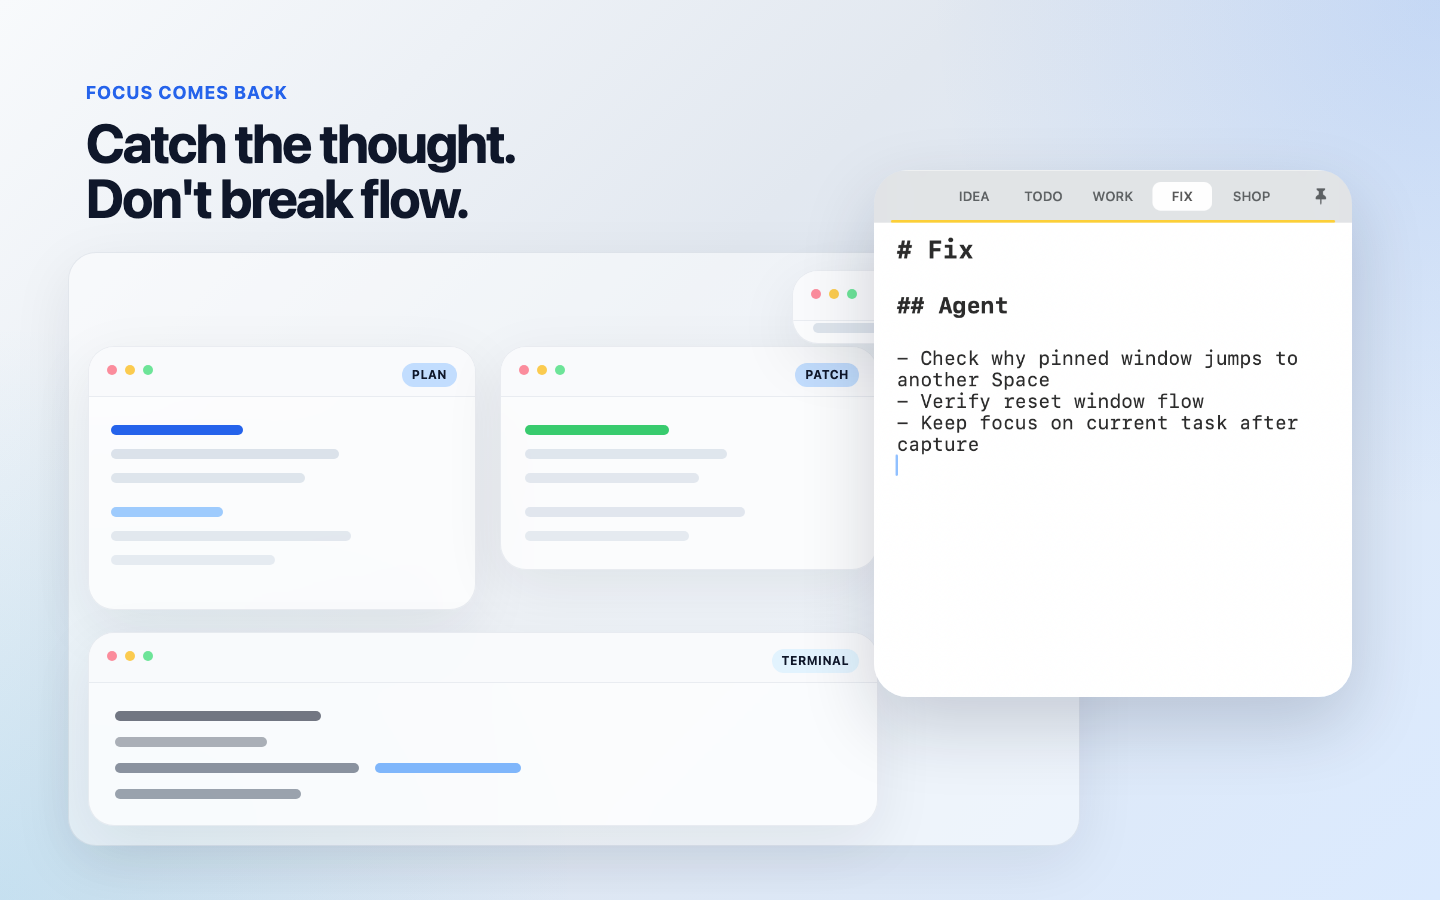
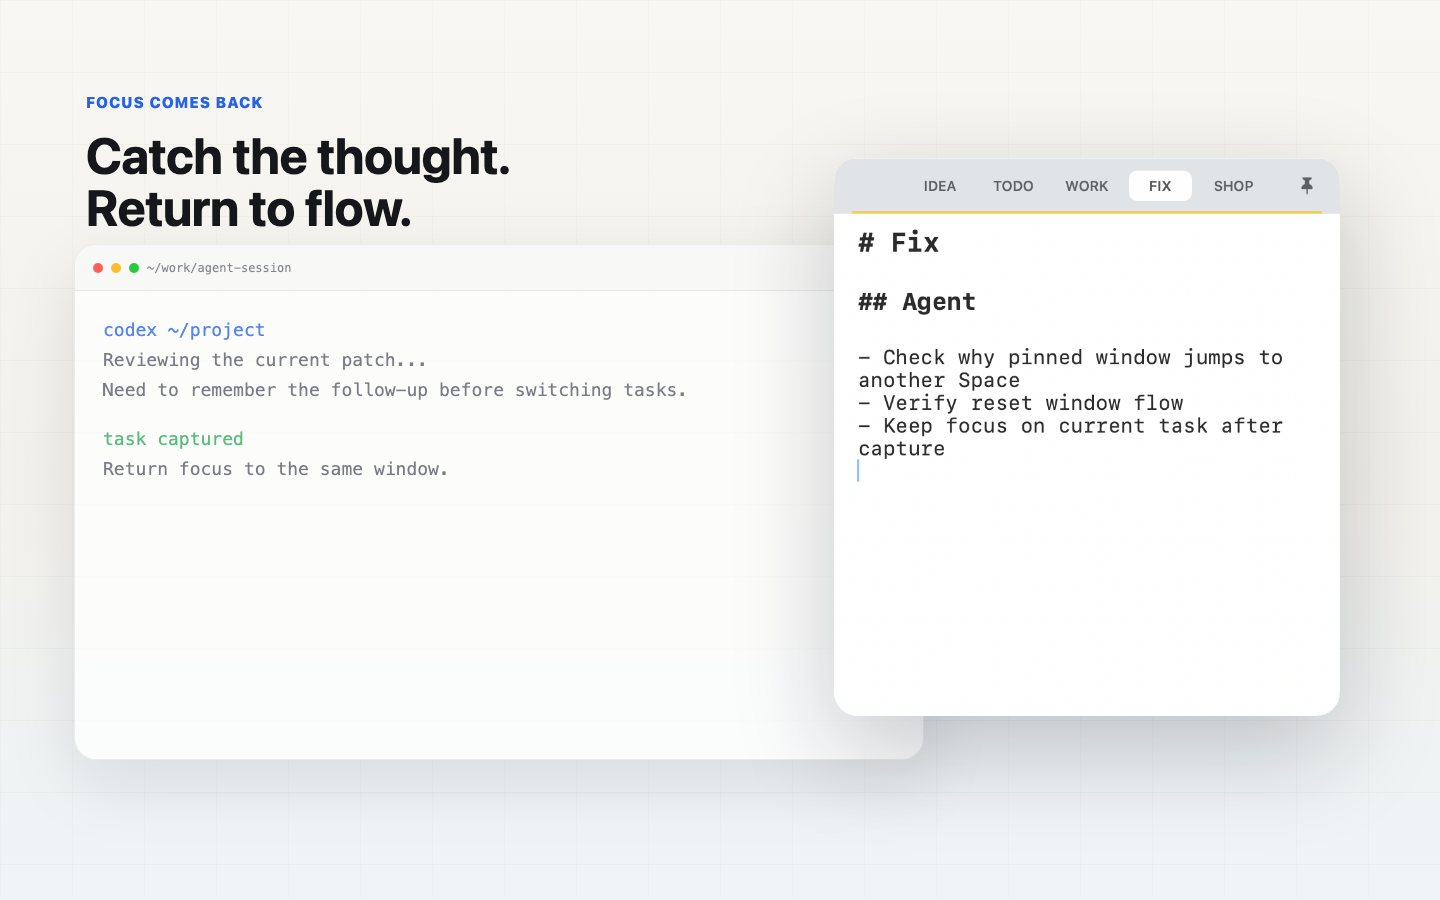
Update SaneFocus launch copy

diff --git a/sanefocus/index.html b/sanefocus/index.html
@@ -3,8 +3,8 @@
   <head>
     <meta charset="utf-8">
     <meta name="viewport" content="width=device-width, initial-scale=1">
-    <title>SaneFocus - Quick notes without losing focus</title>
-    <meta name="description" content="SaneFocus is a lightweight macOS scratchpad for quick notes, keyboard-first TODOs, and getting back to what you were doing.">
+    <title>SaneFocus - Quick notes, then back to flow</title>
+    <meta name="description" content="SaneFocus is a lightweight macOS scratchpad for quick notes, keyboard-first TODOs, and returning to flow.">
     <link rel="icon" href="/assets/icons/favicon.svg" type="image/svg+xml">
     <link rel="stylesheet" href="/styles.css">
   </head>
@@ -24,10 +24,10 @@
     <main class="shell hero">
       <section>
         <div class="eyebrow">SaneFocus for macOS</div>
-        <h1>Catch the thought.<br>Keep the focus.</h1>
+        <h1>Catch the thought.<br>Return to flow.</h1>
         <p class="lede">
           A lightweight macOS scratchpad for quick notes, keyboard-first TODOs,
-          and getting back to what you were doing.
+          and returning to the app you were using.
         </p>
         <div class="actions">
           <a class="button" href="#features">See features</a>
@@ -35,7 +35,7 @@
         </div>
       </section>
       <section class="hero-card" aria-label="SaneFocus app preview">
-        <video src="/assets/sanefocus/01-app-preview.mp4" autoplay muted loop playsinline poster="/assets/sanefocus/02-focus-comes-back.png"></video>
+        <img src="/assets/sanefocus/02-focus-comes-back.png" alt="SaneFocus app screenshot">
       </section>
     </main>
 
@@ -60,13 +60,13 @@
         </article>
         <article class="feature">
           <div class="feature-mark"></div>
-          <h3>Lightweight tabs</h3>
-          <p>Keep separate thought streams in compact tabs without opening a full notes workspace.</p>
+          <h3>Five quiet tabs</h3>
+          <p>Keep separate thought streams in five compact tabs. Titles update from what you write, so context stays recognizable without extra setup.</p>
         </article>
         <article class="feature">
           <div class="feature-mark"></div>
           <h3>Local by default</h3>
-          <p>Notes stay local on your Mac. SaneFocus does not require an account or upload analytics.</p>
+          <p>Notes stay local on your Mac. SaneFocus does not require an account, Accessibility permission, or analytics upload.</p>
         </article>
       </div>
     </section>
@@ -92,7 +92,8 @@
           <h3>Support</h3>
           <p>
             Questions, bug reports, and feature requests are welcome. The
-            support page also explains Accessibility permission and local notes.
+            support page also explains focus return behavior, local notes, and
+            why Accessibility permission is not required.
           </p>
           <a class="button secondary" href="/sanefocus/support/">Open support</a>
         </article>

diff --git a/index.html b/index.html
@@ -4,7 +4,7 @@
     <meta charset="utf-8">
     <meta name="viewport" content="width=device-width, initial-scale=1">
     <title>JP Forge Studio</title>
-    <meta name="description" content="JP Forge Studio makes SaneFocus, a small Mac scratchpad for catching thoughts without losing focus.">
+    <meta name="description" content="JP Forge Studio makes SaneFocus, a small Mac scratchpad for catching thoughts and returning to flow.">
     <link rel="icon" href="/assets/icons/favicon.svg" type="image/svg+xml">
     <link rel="stylesheet" href="/styles.css">
   </head>
@@ -24,7 +24,7 @@
     <main class="shell hero">
       <section>
         <div class="eyebrow">Small Mac Apps</div>
-        <h1>Catch the thought.<br>Keep the focus.</h1>
+        <h1>Catch the thought.<br>Return to flow.</h1>
         <p class="lede">
           JP Forge Studio makes SaneFocus: a lightweight Mac scratchpad that
           opens quickly, stays local, and gets out of the way.
@@ -57,8 +57,8 @@
           <h3>Local-first by default</h3>
           <p>
             SaneFocus stores notes locally on your Mac and does not require an
-            account. Accessibility permission is used only for window focus
-            behavior.
+            account. Focus return uses standard macOS app activation behavior,
+            without Accessibility permission, note uploads, or analytics.
           </p>
         </article>
       </div>

diff --git a/sanefocus/privacy/index.html b/sanefocus/privacy/index.html
@@ -44,11 +44,11 @@
         analytics SDKs.
       </p>
 
-      <h2>Accessibility permission</h2>
+      <h2>Focus return</h2>
       <p>
-        SaneFocus may ask for macOS Accessibility permission so it can restore
-        focus to the app you were using after opening and closing the notes
-        window. This permission is used only for window focus behavior.
+        SaneFocus remembers the app that was active before quick capture and
+        asks macOS to reactivate that app after the notes window closes. This
+        does not require Accessibility permission.
       </p>
 
       <h2>Contact</h2>

diff --git a/sanefocus/support/index.html b/sanefocus/support/index.html
@@ -33,11 +33,11 @@
       </p>
 
       <h2>Common questions</h2>
-      <h3>Why does SaneFocus ask for Accessibility permission?</h3>
+      <h3>Does SaneFocus need Accessibility permission?</h3>
       <p>
-        SaneFocus may ask for macOS Accessibility permission so it can return
-        focus to the app you were using after quick capture. This permission is
-        used only for window focus behavior.
+        No. SaneFocus restores focus by asking macOS to reactivate the app you
+        were using before quick capture. It does not need Accessibility
+        permission for this behavior.
       </p>
 
       <h3>Where are notes stored?</h3>

diff --git a/docs/theme-references.md b/docs/theme-references.md
@@ -177,13 +177,13 @@ Hero copy 후보:
 
 ```text
 Catch the thought.
-Keep the focus.
+Return to flow.
 ```
 
 Supporting copy 후보:
 
 ```text
-SaneFocus is a lightweight macOS scratchpad for quick notes, keyboard-first TODOs, and getting back to what you were doing.
+SaneFocus is a lightweight macOS scratchpad for quick notes, keyboard-first TODOs, and returning to flow.
 ```
 
 핵심 섹션:
@@ -198,7 +198,7 @@ Support page 톤:
 
 - 담백하고 도움되는 문서형.
 - support email을 명확히 표시한다.
-- Accessibility permission이 왜 필요한지 설명한다.
+- Accessibility permission이 필요하지 않다는 점과 focus return 동작을 설명한다.
 - local notes, no account, no analytics upload 문구를 포함한다.
 
 Privacy page 톤:

diff --git a/goals/002-define-brand-foundation.md b/goals/002-define-brand-foundation.md
@@ -67,3 +67,5 @@ Checks:
   motif.
 - 2026-05-02: Unified the homepage and product page tagline around "Catch the
   thought. Keep the focus."
+- 2026-05-13: Updated the public tagline to "Catch the thought. Return to
+  flow." to match the App Store screenshot set and focus-return positioning.